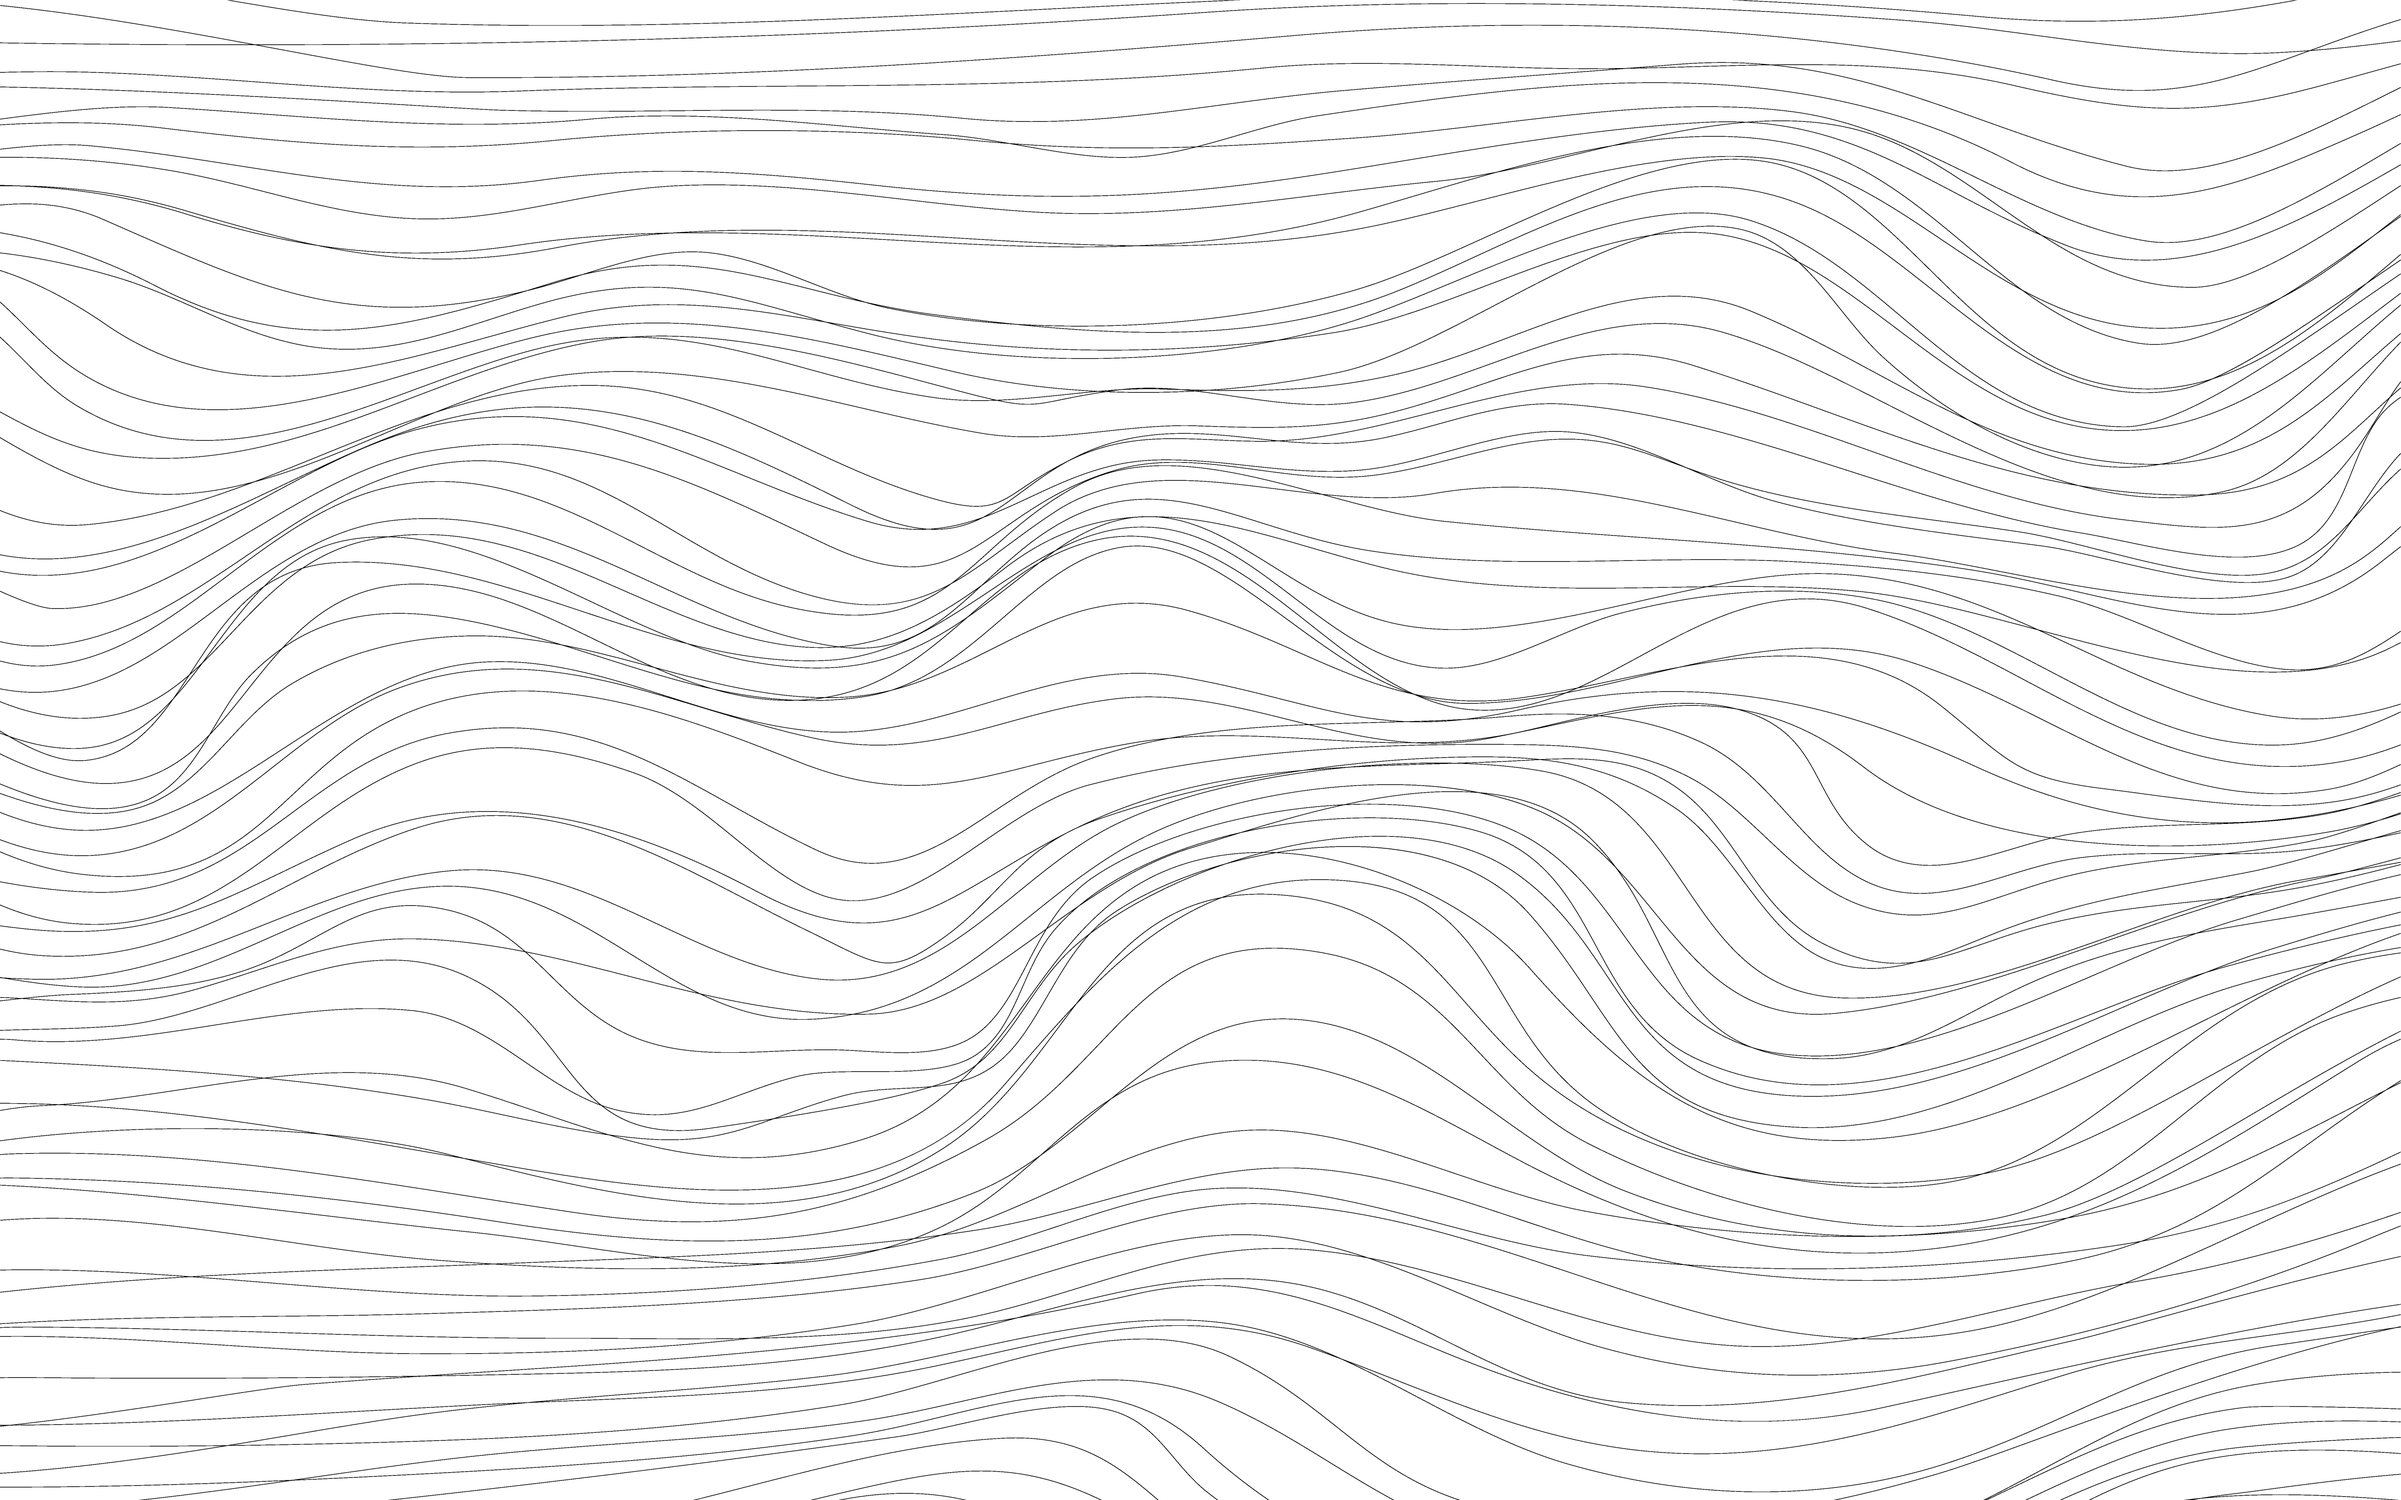
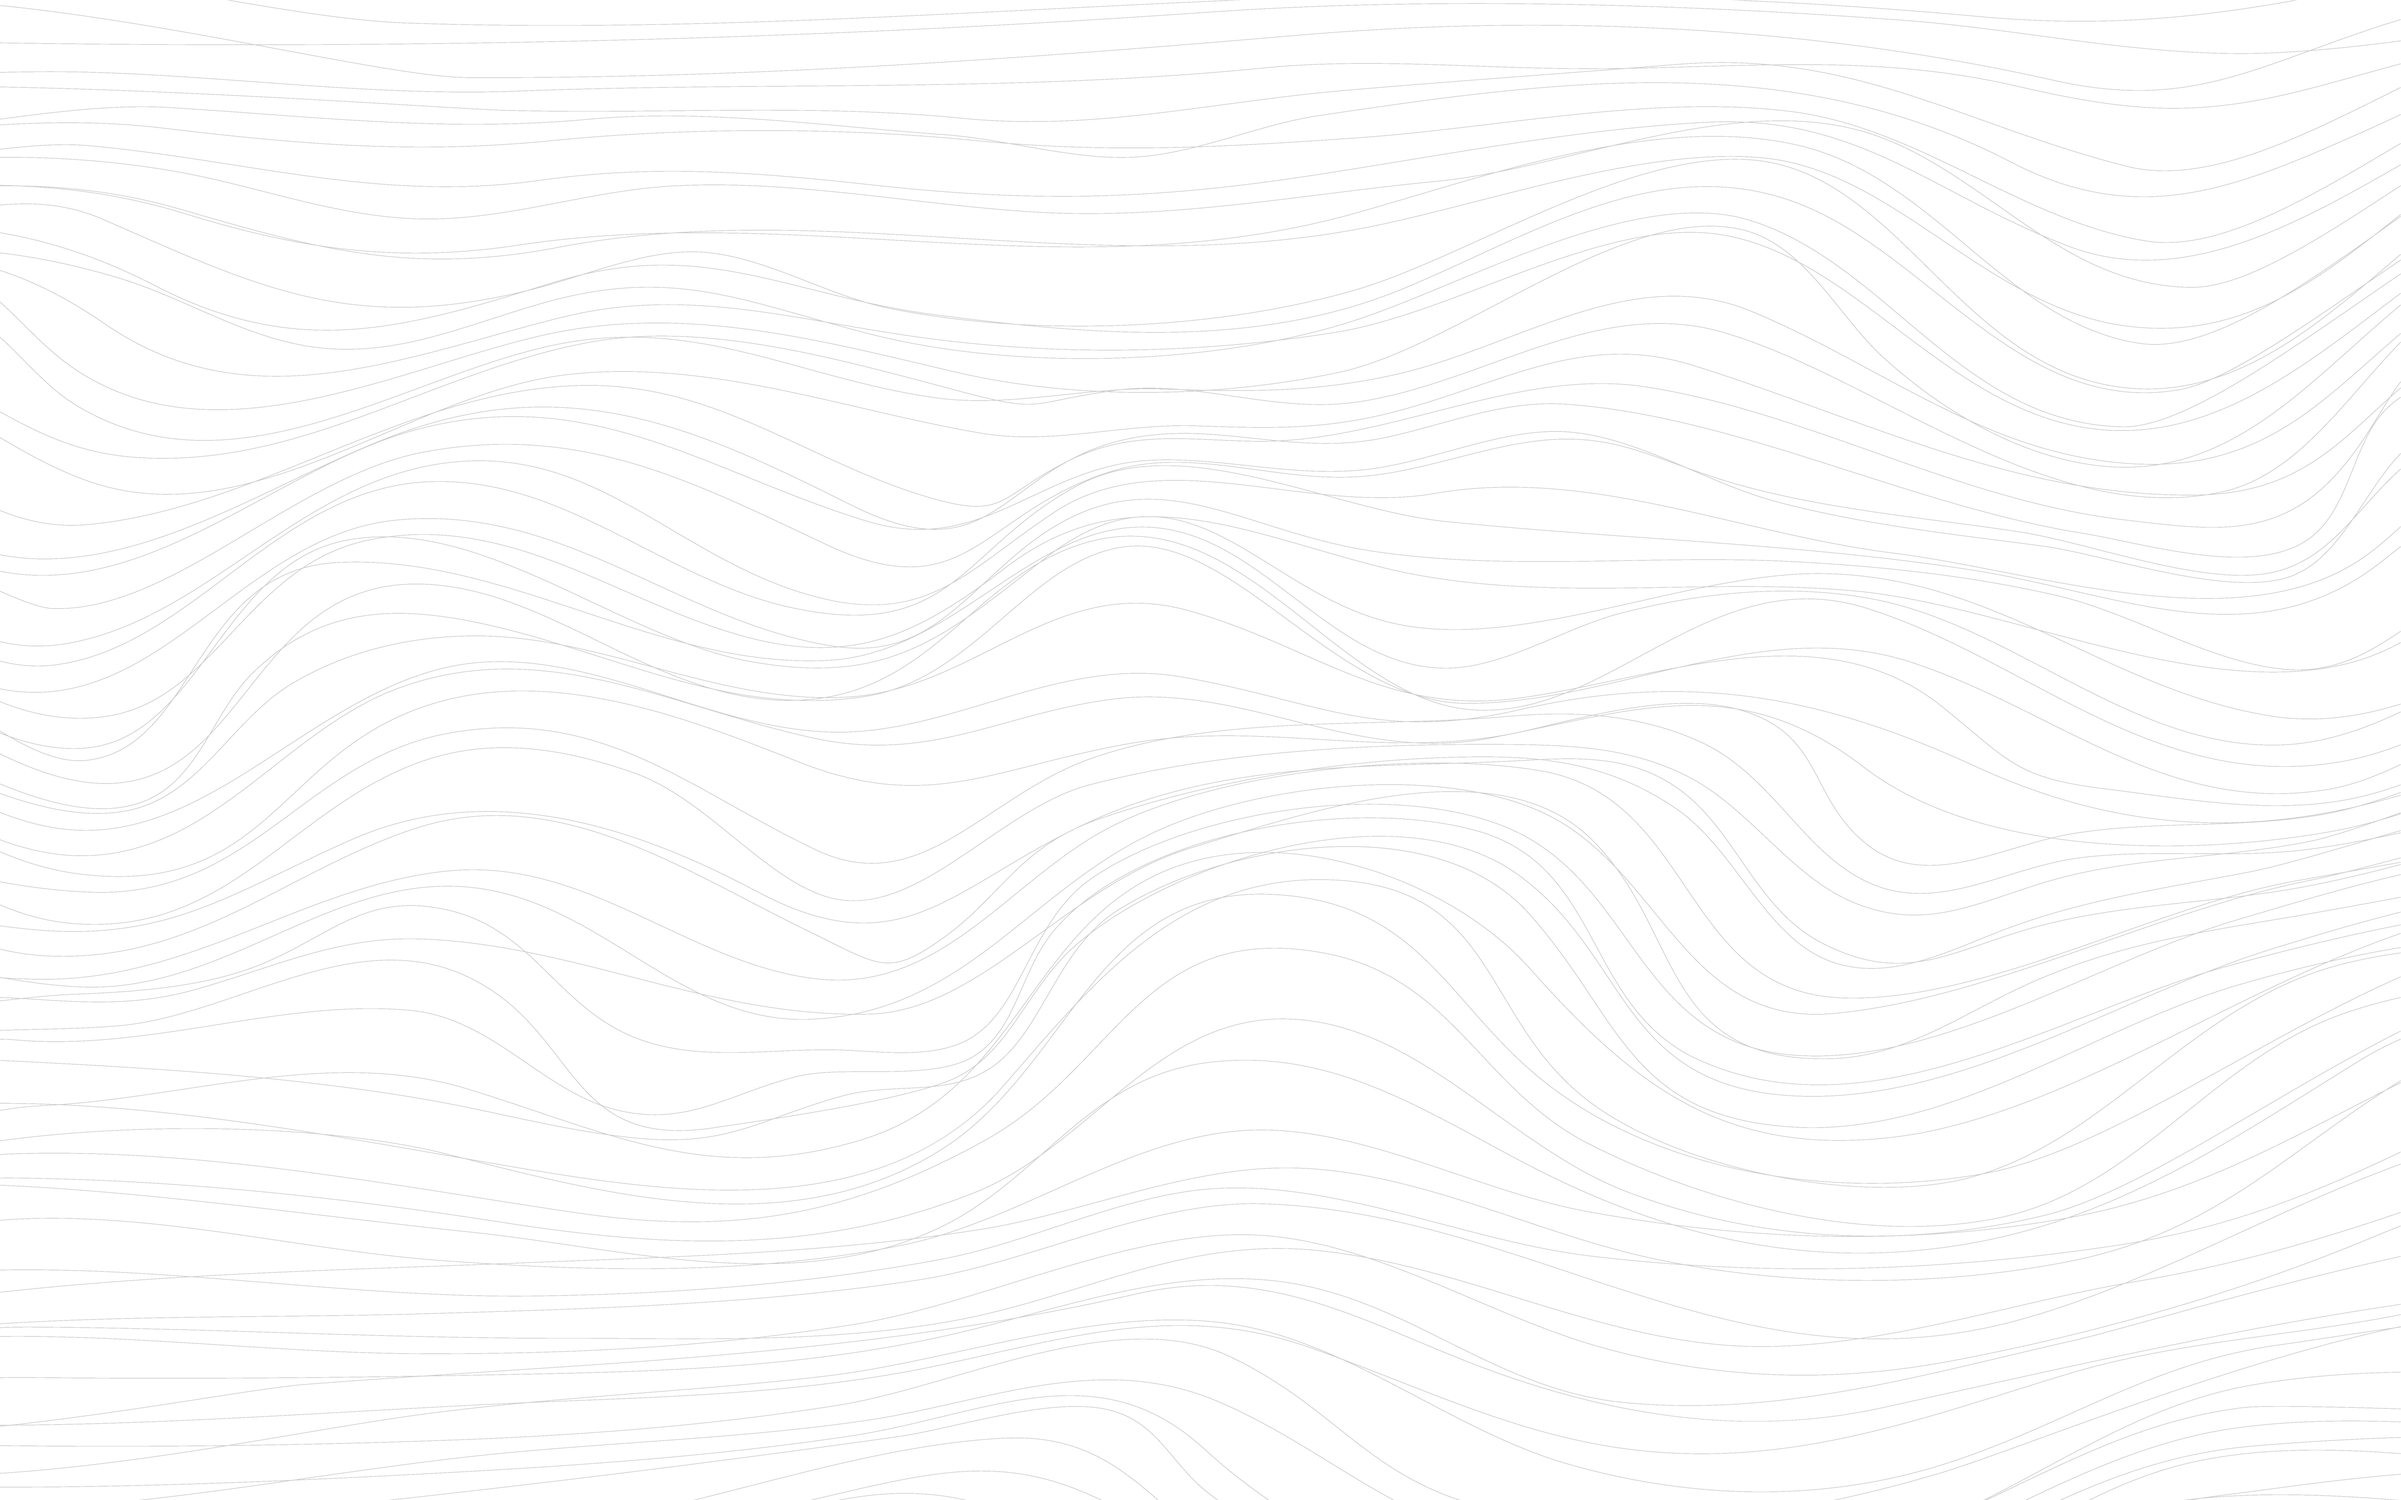
BG Opacity and Highlights Flex Stlye edit

diff --git a/css/style.css b/css/style.css
@@ -1046,8 +1046,8 @@ a:hover:after {
 	}
 
 	#Highlights h3 {
-		font-size: 1.5em;
-		margin: 4em 0 1em 0;
+		font-size: 1.7em;
+		margin: 4em 0 2em 0;
 	}
 
 	.highlights-data {
@@ -1058,12 +1058,18 @@ a:hover:after {
 		flex-direction: row;
 		justify-content: space-evenly;
 		align-items: center;
-		width: 30%;
-		/* margin: 0em; */
+		width: 35%;
+		margin-bottom: 3em;
+	}
+
+	.highlights-data-card img {
+		margin: 0em !important;
+		/* width: 100%; */
 	}
 
 	.highlights-data-card p {
-		margin-left: 10px;
+		margin-left: 10%;
+		font-size: 1em;
 	}
 }
 
